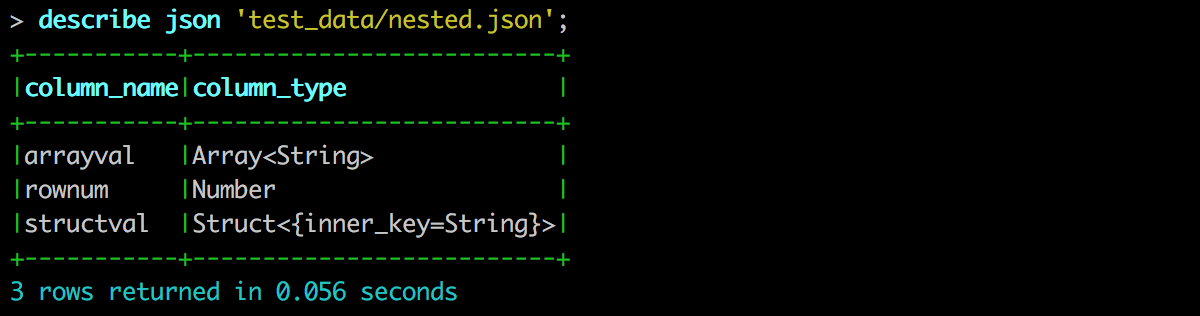
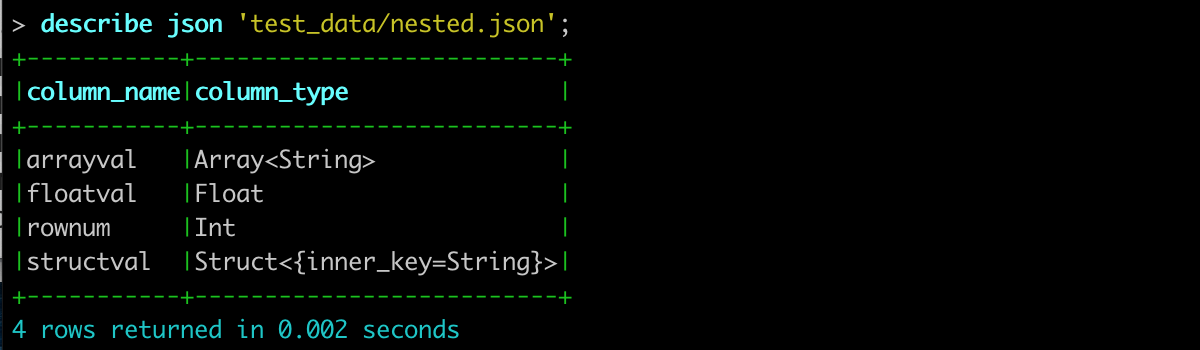
Describe operator differentiates between floats and ints

diff --git a/src/main/kotlin/jsonsql/physical/operators/DescribeOperator.kt b/src/main/kotlin/jsonsql/physical/operators/DescribeOperator.kt
@@ -49,11 +49,9 @@ class DescribeOperator(
                 "  ${it.key} ${it.value.tableString("  ").trimStart()}"
             }.joinToString(",\n")
 
-            """
-CREATE TABLE '${table.path}' (
+            """CREATE TABLE '${table.path}' (
 $rows
-)
-""".splitToSequence("\n").map { listOf(it) }
+)""".splitToSequence("\n").map { listOf(it) }
         } else {
             outRows.map { listOf(it.key, it.value.toString()) }.asSequence()
         }
@@ -62,7 +60,8 @@ $rows
     private fun populateUsedTypes(usedTypes: UsedTypes, value: Any?) {
         when(value) {
             is Boolean -> usedTypes.couldBeBoolean = true
-            is Number -> usedTypes.couldBeNumber = true
+            is Int, Long, Short, Byte -> if (!usedTypes.couldBeFloat) usedTypes.couldBeInt = true // Only set int if we're not already promoted to float
+            is Number -> { usedTypes.couldBeFloat = true; usedTypes.couldBeInt = false }
             is String -> usedTypes.couldBeString = true
             is Map<*,*> -> {
                 usedTypes.couldBeStruct = true
@@ -79,10 +78,11 @@ $rows
         }
     }
 
-
     // Class to keep track of what we see
     private data class UsedTypes(
-            var couldBeNumber: Boolean = false,
+            // Really for display purposes we wouldn't display union<int,float> we just promote the ints to floats
+            var couldBeInt: Boolean = false,
+            var couldBeFloat: Boolean = false,
             var couldBeString: Boolean = false,
             var couldBeBoolean: Boolean = false,
             var couldBeStruct: Boolean = false,
@@ -92,7 +92,8 @@ $rows
     ) {
         override fun toString(): String {
             val descriptions = mutableListOf<String>()
-            if (couldBeNumber) descriptions.add("Number")
+            if (couldBeFloat) descriptions.add("Float")
+            if (couldBeInt) descriptions.add("Int")
             if (couldBeString) descriptions.add("String")
             if (couldBeBoolean) descriptions.add("Boolean")
             if (couldBeArray) descriptions.add("Array<${arrayEntries!!}>")
@@ -101,7 +102,7 @@ $rows
         }
 
         fun tableString(baseIndent: String): String {
-            val types = listOf(couldBeNumber, couldBeString, couldBeBoolean, couldBeArray, couldBeStruct).filter { it }
+            val types = listOf(couldBeInt, couldBeString, couldBeBoolean, couldBeArray, couldBeStruct).filter { it }
             if(types.isEmpty()) return "${baseIndent}NULL"
 
             val union = types.size > 1
@@ -110,7 +111,8 @@ $rows
             val indent = if(union) "$baseIndent  " else baseIndent
 
 
-            if (couldBeNumber) unionItems.add("${indent}NUMBER")
+            if (couldBeFloat) unionItems.add("${indent}FLOAT")
+            if (couldBeInt) unionItems.add("${indent}INTEGER")
             if (couldBeString) unionItems.add("${indent}STRING")
             if (couldBeBoolean) unionItems.add("${indent}BOOLEAN")
             if (couldBeArray) {

diff --git a/src/test/kotlin/jsonsql/integration/BasicTest.kt b/src/test/kotlin/jsonsql/integration/BasicTest.kt
@@ -14,8 +14,22 @@ object BasicTest: Spek({
         it("describe") {
             testQuery("describe json 'test_data/nested.json';", """
                 arrayval | Array<String>
-                rownum | Number
+                floatval | Float
+                rownum | Int
                 structval | Struct<{inner_key=String}>
+            """.trimIndent())
+        }
+
+        it("describe as table") {
+            testQuery("describe json 'test_data/nested.json' as table;", """
+                CREATE TABLE 'test_data/nested.json' (
+                  arrayval ARRAY<STRING>,
+                  floatval NULL,
+                  rownum INTEGER,
+                  structval STRUCT<
+                    inner_key: STRING
+                  >
+                )
             """.trimIndent())
         }
 
@@ -70,15 +84,15 @@ object BasicTest: Spek({
             testQuery("select extension, count(), sum(size) from dir 'test_data' where parent='test_data' group by extension order by extension;", """
                 csv | 1.0 | 53.0
                 gz | 1.0 | 80.0
-                json | 5.0 | 2015.0
+                json | 5.0 | 2100.0
             """.trimIndent())
         }
 
         it("select __all__") {
             testQuery("select __all__ from json 'test_data/nested.json' limit 3;", """
-                {"rownum":1,"arrayval":["a1","a2","a3"],"structval":{"inner_key":"a"}}
-                {"rownum":2,"arrayval":["b1","b2","b3"],"structval":{"inner_key":"b"}}
-                {"rownum":3,"arrayval":["c1","c2","c3"],"structval":{"inner_key":"c"}}
+                {"rownum":1,"arrayval":["a1","a2","a3"],"structval":{"inner_key":"a"},"floatval":1.1}
+                {"rownum":2,"arrayval":["b1","b2","b3"],"structval":{"inner_key":"b"},"floatval":2.2}
+                {"rownum":3,"arrayval":["c1","c2","c3"],"structval":{"inner_key":"c"},"floatval":3.3}
             """.trimIndent())
         }
 

diff --git a/README.md b/README.md
@@ -31,6 +31,13 @@ describe json 'test_data/nested.json';
 ```
 ![describe output](https://github.com/tim-patterson/jsonsql/raw/master/docs/describe.png)
 
+Often we're working with tools such as hive, presto, athena, spark etc where something shaped more like a create table statement is more useful to us,
+by appending `as table` on to the describe statement the output is rendered more like a create table statement
+```sql
+describe json 'test_data/nested.json' as table;
+```
+![describe table_output](https://github.com/tim-patterson/jsonsql/raw/master/docs/describe-table.png)
+
 ### Basic selects
 ```sql
 select rownum, arrayval, structval from json 'test_data/nested.json';
